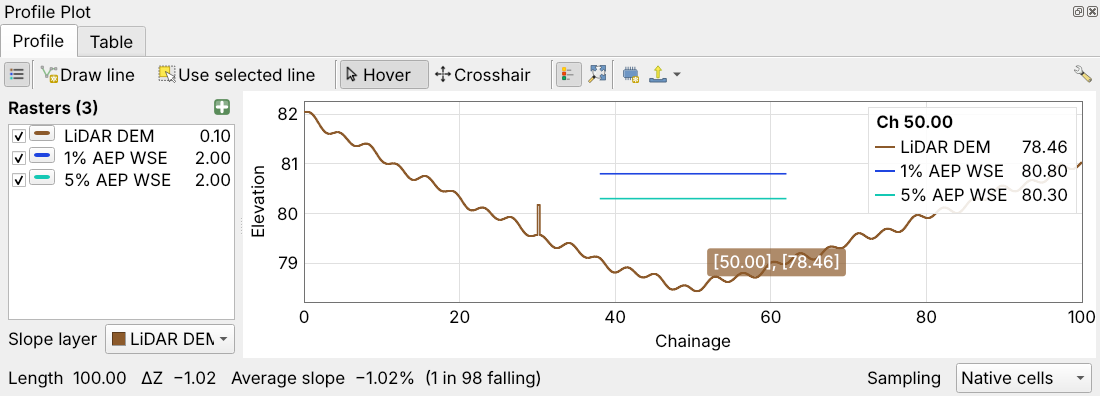
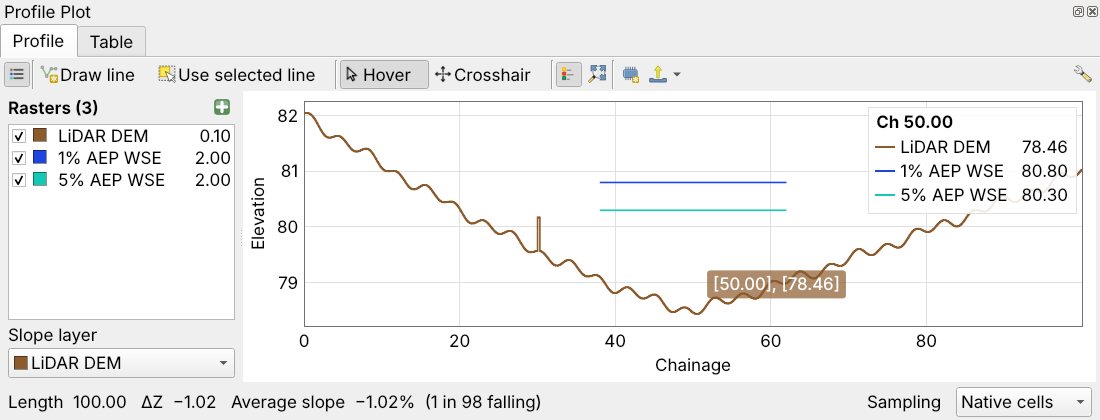
Make the slope layer selector match the raster box
- One swatch look everywhere: raster rows now use a solid colour box
  (click opens the QGIS colour dialog), identical to the slope selector
- Slope selector sits under the raster box at its full width, so names
  are no longer clipped; long names are elided with an ellipsis and shown
  in full in the tooltip and drop-down list
- In the compact layout the selector is inline and sized to the name
- Regression test; screenshots use exact vertices; version 1.1.1

Claude-Session: https://claude.ai/code/session_01Dz8GrhiLZLR2EK7NZVtAvs

diff --git a/profile_plot/raster_list.py b/profile_plot/raster_list.py
@@ -1,10 +1,12 @@
 """Raster list panel: rows with visibility, colour, name and cell size."""
 
 from qgis.core import Qgis, QgsMimeDataUtils, QgsProject, QgsRasterLayer, QgsUnitTypes
-from qgis.gui import QgsColorButton, QgsColorDialog
-from qgis.PyQt.QtCore import QSize, Qt, pyqtSignal
+from qgis.gui import QgsColorDialog
+from qgis.PyQt.QtCore import QRect, QSize, Qt, pyqtSignal
+from qgis.PyQt.QtGui import QColor, QPainter, QPalette
 from qgis.PyQt.QtWidgets import (
     QAbstractItemView,
+    QBoxLayout,
     QComboBox,
     QDialog,
     QDialogButtonBox,
@@ -15,6 +17,10 @@ from qgis.PyQt.QtWidgets import (
     QListWidget,
     QListWidgetItem,
     QMenu,
+    QSizePolicy,
+    QStyle,
+    QStyleOptionComboBox,
+    QStylePainter,
     QToolButton,
     QTreeWidget,
     QTreeWidgetItem,
@@ -81,6 +87,69 @@ def format_cell_size(entry, show_units):
     return text
 
 
+class ColorSwatchButton(QToolButton):
+    """Solid colour box; click it to pick a colour with the QGIS colour
+    dialog.  Drawn with the same swatch as the slope selector."""
+
+    colorChanged = pyqtSignal(QColor)
+
+    def __init__(self, color, parent=None):
+        super().__init__(parent)
+        self._color = QColor(color)
+        self.dialog_title = "Curve colour"
+        self.setAutoRaise(True)
+        self.setCursor(Qt.CursorShape.PointingHandCursor)
+        self.setFocusPolicy(Qt.FocusPolicy.TabFocus)
+        self.setFixedSize(icons.SWATCH_SIZE + 8, icons.SWATCH_SIZE + 6)
+        self.clicked.connect(self.pick_color)
+
+    def color(self):
+        return QColor(self._color)
+
+    def setColor(self, color):  # noqa: N802 (Qt-style API)
+        color = QColor(color)
+        if not color.isValid() or color == self._color:
+            return
+        self._color = color
+        self.update()
+        self.colorChanged.emit(QColor(color))
+
+    def pick_color(self):
+        c = QgsColorDialog.getColor(self._color, self, self.dialog_title, False)
+        if c.isValid():
+            self.setColor(c)
+
+    def paintEvent(self, event):
+        p = QPainter(self)
+        s = icons.SWATCH_SIZE
+        rect = QRect((self.width() - s) // 2, (self.height() - s) // 2, s, s)
+        if self.underMouse() or self.hasFocus():
+            hl = QColor(self.palette().color(QPalette.ColorRole.Highlight))
+            hl.setAlpha(90)
+            p.fillRect(rect.adjusted(-3, -3, 3, 3), hl)
+        icons.paint_swatch(p, rect, self._color)
+        p.end()
+
+
+class ElidedComboBox(QComboBox):
+    """Combo box that shortens a long current text with "…" instead of
+    clipping it mid-letter."""
+
+    def paintEvent(self, event):
+        painter = QStylePainter(self)
+        opt = QStyleOptionComboBox()
+        self.initStyleOption(opt)
+        painter.drawComplexControl(QStyle.ComplexControl.CC_ComboBox, opt)
+        field = self.style().subControlRect(QStyle.ComplexControl.CC_ComboBox, opt,
+                                            QStyle.SubControl.SC_ComboBoxEditField, self)
+        avail = field.width() - 4
+        if not opt.currentIcon.isNull():
+            avail -= opt.iconSize.width() + 4
+        opt.currentText = self.fontMetrics().elidedText(
+            opt.currentText, Qt.TextElideMode.ElideRight, max(avail, 0))
+        painter.drawControl(QStyle.ControlElement.CE_ComboBoxLabel, opt)
+
+
 class RasterTree(QTreeWidget):
     """List widget accepting layer drops and internal reordering."""
 
@@ -106,7 +175,7 @@ class RasterTree(QTreeWidget):
         hdr.setMinimumSectionSize(4)
         hdr.setSectionResizeMode(COL_VISIBLE, QHeaderView.ResizeMode.ResizeToContents)
         hdr.setSectionResizeMode(COL_COLOR, QHeaderView.ResizeMode.Fixed)
-        hdr.resizeSection(COL_COLOR, 32)
+        hdr.resizeSection(COL_COLOR, icons.SWATCH_SIZE + 12)
         hdr.setSectionResizeMode(COL_NAME, QHeaderView.ResizeMode.Stretch)
         hdr.setSectionResizeMode(COL_CELL, QHeaderView.ResizeMode.ResizeToContents)
         self.setContextMenuPolicy(Qt.ContextMenuPolicy.CustomContextMenu)
@@ -181,24 +250,24 @@ class RasterPanel(QWidget):
         lay.addWidget(self.tree, 1)
 
         # Slope selector (re-parented to the footer in the compact layout).
+        # In the panel the label sits above a full-width selector, so the
+        # selector lines up with the raster box; in the compact layout the
+        # same widget sits inline in the footer.
         self.slope_box = QWidget(self)
-        sl = QHBoxLayout(self.slope_box)
-        sl.setContentsMargins(0, 0, 0, 0)
-        sl.setSpacing(6)
+        self._slope_layout = QBoxLayout(QBoxLayout.Direction.TopToBottom, self.slope_box)
+        self._slope_layout.setContentsMargins(0, 0, 0, 0)
         self.slope_label = QLabel("Slope layer")
-        sl.addWidget(self.slope_label)
-        self.slope_combo = QComboBox()
-        self.slope_combo.setToolTip("Raster used for ΔZ and average slope (start to end of the line).\n"
-                                    "Leave as (none) to hide the grade.")
-        self.slope_combo.setSizeAdjustPolicy(QComboBox.SizeAdjustPolicy.AdjustToContents)
-        self.slope_combo.setMinimumContentsLength(10)
-        self.slope_combo.setMaximumWidth(260)
+        self._slope_layout.addWidget(self.slope_label)
+        self.slope_combo = ElidedComboBox()
+        self.slope_combo.setMinimumContentsLength(4)
+        self.slope_combo.setIconSize(QSize(icons.SWATCH_SIZE, icons.SWATCH_SIZE))
         self.slope_combo.currentIndexChanged.connect(self._on_slope_changed)
-        sl.addWidget(self.slope_combo, 1)
+        self._slope_layout.addWidget(self.slope_combo, 1)
         self.slope_slot = QVBoxLayout()
         self.slope_slot.setContentsMargins(0, 0, 0, 0)
         self.slope_slot.addWidget(self.slope_box)
         lay.addLayout(self.slope_slot)
+        self._set_slope_layout(compact=False)
 
         session.rastersChanged.connect(self.refresh)
         session.colorChanged.connect(self._on_color_changed)
@@ -250,15 +319,22 @@ class RasterPanel(QWidget):
         if idx < 0:
             self.session.set_slope(None)
         combo.blockSignals(False)
+        # The drop-down list shows full names even when the box is narrow.
+        fm = combo.fontMetrics()
+        widest = max([fm.horizontalAdvance(combo.itemText(i)) for i in range(combo.count())] + [0])
+        combo.view().setMinimumWidth(widest + icons.SWATCH_SIZE + 36)
+        self._update_slope_tooltip()
+
+    def _update_slope_tooltip(self):
+        name = self.slope_combo.currentText()
+        self.slope_combo.setToolTip(
+            "Slope layer: {}\nRaster used for ΔZ and average slope (start to end of the "
+            "line).\nLeave as (none) to hide the grade.".format(name))
 
     def _color_button(self, e):
         """QGIS colour box: click it to pick the curve colour."""
-        btn = QgsColorButton()
-        btn.setShowMenu(False)
-        btn.setAllowOpacity(False)
-        btn.setColorDialogTitle("Curve colour")
-        btn.setColor(e.color)
-        btn.setFixedSize(26, 16)
+        btn = ColorSwatchButton(e.color)
+        btn.dialog_title = "Curve colour – {}".format(e.name)
         btn.setToolTip("Click to change the colour of this curve")
         btn.setAccessibleName("Colour of {}".format(e.name))
         btn.setProperty("uid", e.uid)
@@ -289,6 +365,7 @@ class RasterPanel(QWidget):
             combo.blockSignals(True)
             combo.setCurrentIndex(idx)
             combo.blockSignals(False)
+            self._update_slope_tooltip()
 
     def set_show_units(self, show):
         self.show_units = show
@@ -306,6 +383,7 @@ class RasterPanel(QWidget):
 
     def _on_slope_changed(self, index):
         self.session.set_slope(self.slope_combo.itemData(index))
+        self._update_slope_tooltip()
 
     def _choose_color(self, uid):
         e = self.session.entry(uid)
@@ -350,11 +428,30 @@ class RasterPanel(QWidget):
 
     # -- compact layout ------------------------------------------------------------
 
+    def _set_slope_layout(self, compact):
+        combo = self.slope_combo
+        if compact:
+            self._slope_layout.setDirection(QBoxLayout.Direction.LeftToRight)
+            self._slope_layout.setSpacing(6)
+            combo.setSizeAdjustPolicy(QComboBox.SizeAdjustPolicy.AdjustToContents)
+            combo.setSizePolicy(QSizePolicy.Policy.Preferred, QSizePolicy.Policy.Fixed)
+            combo.setMaximumWidth(320)
+        else:
+            self._slope_layout.setDirection(QBoxLayout.Direction.TopToBottom)
+            self._slope_layout.setSpacing(2)
+            combo.setSizeAdjustPolicy(
+                QComboBox.SizeAdjustPolicy.AdjustToMinimumContentsLengthWithIcon)
+            combo.setSizePolicy(QSizePolicy.Policy.Expanding, QSizePolicy.Policy.Fixed)
+            combo.setMaximumWidth(16777215)
+        combo.updateGeometry()
+
     def take_slope_box(self):
         self.slope_slot.removeWidget(self.slope_box)
+        self._set_slope_layout(compact=True)
         return self.slope_box
 
     def restore_slope_box(self):
+        self._set_slope_layout(compact=False)
         self.slope_box.setParent(self)
         self.slope_slot.addWidget(self.slope_box)
         self.slope_box.show()

diff --git a/tests/test_qgis_integration.py b/tests/test_qgis_integration.py
@@ -514,3 +514,37 @@ def test_image_export(env, tmp_path):
     assert (img.width(), img.height()) == (1200, 600)   # 2x resolution
     with open(str(tmp_path / "plot.svg")) as fh:
         assert "<svg" in fh.read(500)
+
+
+def test_slope_selector_matches_raster_box(env):
+    """Same swatch as the raster rows, full width under the raster box, and
+    the full name fits in the compact footer."""
+    from profile_plot import icons
+    from profile_plot.raster_list import ColorSwatchButton
+    dock = env["plugin"].dock
+    panel = dock.raster_panel
+    s = dock.session
+    e = s.rasters[0]
+    s.set_slope(e.uid)
+    dock.resize(1000, 340)
+    dock.show()
+    env["app"].processEvents()
+    btn = panel.color_button(e.uid)
+    assert isinstance(btn, ColorSwatchButton)
+    combo = panel.slope_combo
+    idx = combo.findData(e.uid)
+    a = combo.itemIcon(idx).pixmap(icons.SWATCH_SIZE, icons.SWATCH_SIZE).toImage()
+    b = icons.color_swatch(e.color).pixmap(icons.SWATCH_SIZE, icons.SWATCH_SIZE).toImage()
+    assert a == b
+    # Panel: selector as wide as the raster box, left edges aligned
+    tree_geo = panel.tree.geometry()
+    combo_left = combo.mapTo(panel, combo.rect().topLeft()).x()
+    assert abs(combo_left - tree_geo.left()) <= 2
+    assert abs(combo.width() - tree_geo.width()) <= 2
+    # Compact: inline in the footer, wide enough for the full name
+    dock.act_rasters.setChecked(False)
+    env["app"].processEvents()
+    fm = combo.fontMetrics()
+    assert combo.width() >= fm.horizontalAdvance(combo.currentText()) + icons.SWATCH_SIZE
+    dock.act_rasters.setChecked(True)
+    env["app"].processEvents()

diff --git a/profile_plot/icons.py b/profile_plot/icons.py
@@ -7,7 +7,7 @@ palette so they follow light and dark themes.
 import os
 
 from qgis.core import QgsApplication
-from qgis.PyQt.QtCore import QByteArray, QRectF, Qt
+from qgis.PyQt.QtCore import QByteArray, QRect, QRectF, Qt
 from qgis.PyQt.QtGui import QColor, QIcon, QPainter, QPalette, QPixmap
 from qgis.PyQt.QtWidgets import QApplication
 
@@ -106,12 +106,25 @@ def clear_cache():
     _cache.clear()
 
 
-def color_swatch(color, size=14):
-    pm = QPixmap(size, size)
-    pm.fill(Qt.GlobalColor.transparent)
-    p = QPainter(pm)
-    p.setPen(QColor(0, 0, 0, 90))
-    p.setBrush(QColor(color))
-    p.drawRect(0, 0, size - 1, size - 1)
-    p.end()
-    return QIcon(pm)
+SWATCH_SIZE = 14
+
+
+def paint_swatch(painter, rect, color):
+    """The one colour-swatch look used everywhere (raster rows, slope
+    selector): a solid square with a thin dark outline."""
+    painter.setPen(QColor(0, 0, 0, 110))
+    painter.setBrush(QColor(color))
+    painter.drawRect(rect.adjusted(0, 0, -1, -1))
+
+
+def color_swatch(color, size=SWATCH_SIZE):
+    icon = QIcon()
+    for scale in (1, 2):
+        pm = QPixmap(size * scale, size * scale)
+        pm.setDevicePixelRatio(scale)
+        pm.fill(Qt.GlobalColor.transparent)
+        p = QPainter(pm)
+        paint_swatch(p, QRect(0, 0, size, size), color)
+        p.end()
+        icon.addPixmap(pm)
+    return icon

diff --git a/scripts/screenshot.py b/scripts/screenshot.py
@@ -31,7 +31,7 @@ def main():
     out = sys.argv[1]
     os.makedirs(out, exist_ok=True)
     app = H.app()
-    from qgis.PyQt.QtCore import QPointF, Qt
+    from qgis.PyQt.QtCore import QPointF
     paths = H.make_creek_rasters(os.path.join(out, "data"))
     layers = H.load_layers(paths, ["LiDAR DEM", "1% AEP WSE", "5% AEP WSE"])
     style(layers[0], [(78.4, "#2f6b2f"), (79.5, "#7fae5a"), (81, "#d8c98f"), (82.3, "#f3efe0")])
@@ -49,12 +49,12 @@ def main():
     s.add_layers(layers)
     plugin.run()
     s.set_slope(s.rasters[0].uid)
-    tool = dock.map_tool
+    # Exact vertices (clicks would be rounded to whole screen pixels and
+    # could land just outside the DEM edge).
+    from qgis.core import QgsPointXY
     y = H.ORIGIN_Y - 20
-    H.mouse(tool, iface.canvas, "press", H.ORIGIN_X, y)
-    H.mouse(tool, iface.canvas, "move", H.ORIGIN_X + 100, y)
-    H.mouse(tool, iface.canvas, "press", H.ORIGIN_X + 100, y)
-    H.mouse(tool, iface.canvas, "press", H.ORIGIN_X + 100, y, Qt.MouseButton.RightButton)
+    s.set_line([QgsPointXY(H.ORIGIN_X, y), QgsPointXY(H.ORIGIN_X + 99.9999, y)],
+               iface.canvas.mapSettings().destinationCrs())
     H.wait_idle(s)
     iface.canvas.refresh()
     iface.canvas.waitWhileRendering()

diff --git a/README.md b/README.md
@@ -87,6 +87,8 @@ footer:
 * marked *endpoint grade across gap* (with coverage) if the line crosses NoData;
 * marked *(preview)* until full-resolution values are in.
 
+The selector sits under the raster box, uses the same colour swatches, and shows the full
+name; very long names are shortened with "…" and shown in full in the tooltip and the drop-down.
 When the raster list is collapsed, the selector moves next to the grade.
 
 **Inspecting:**
